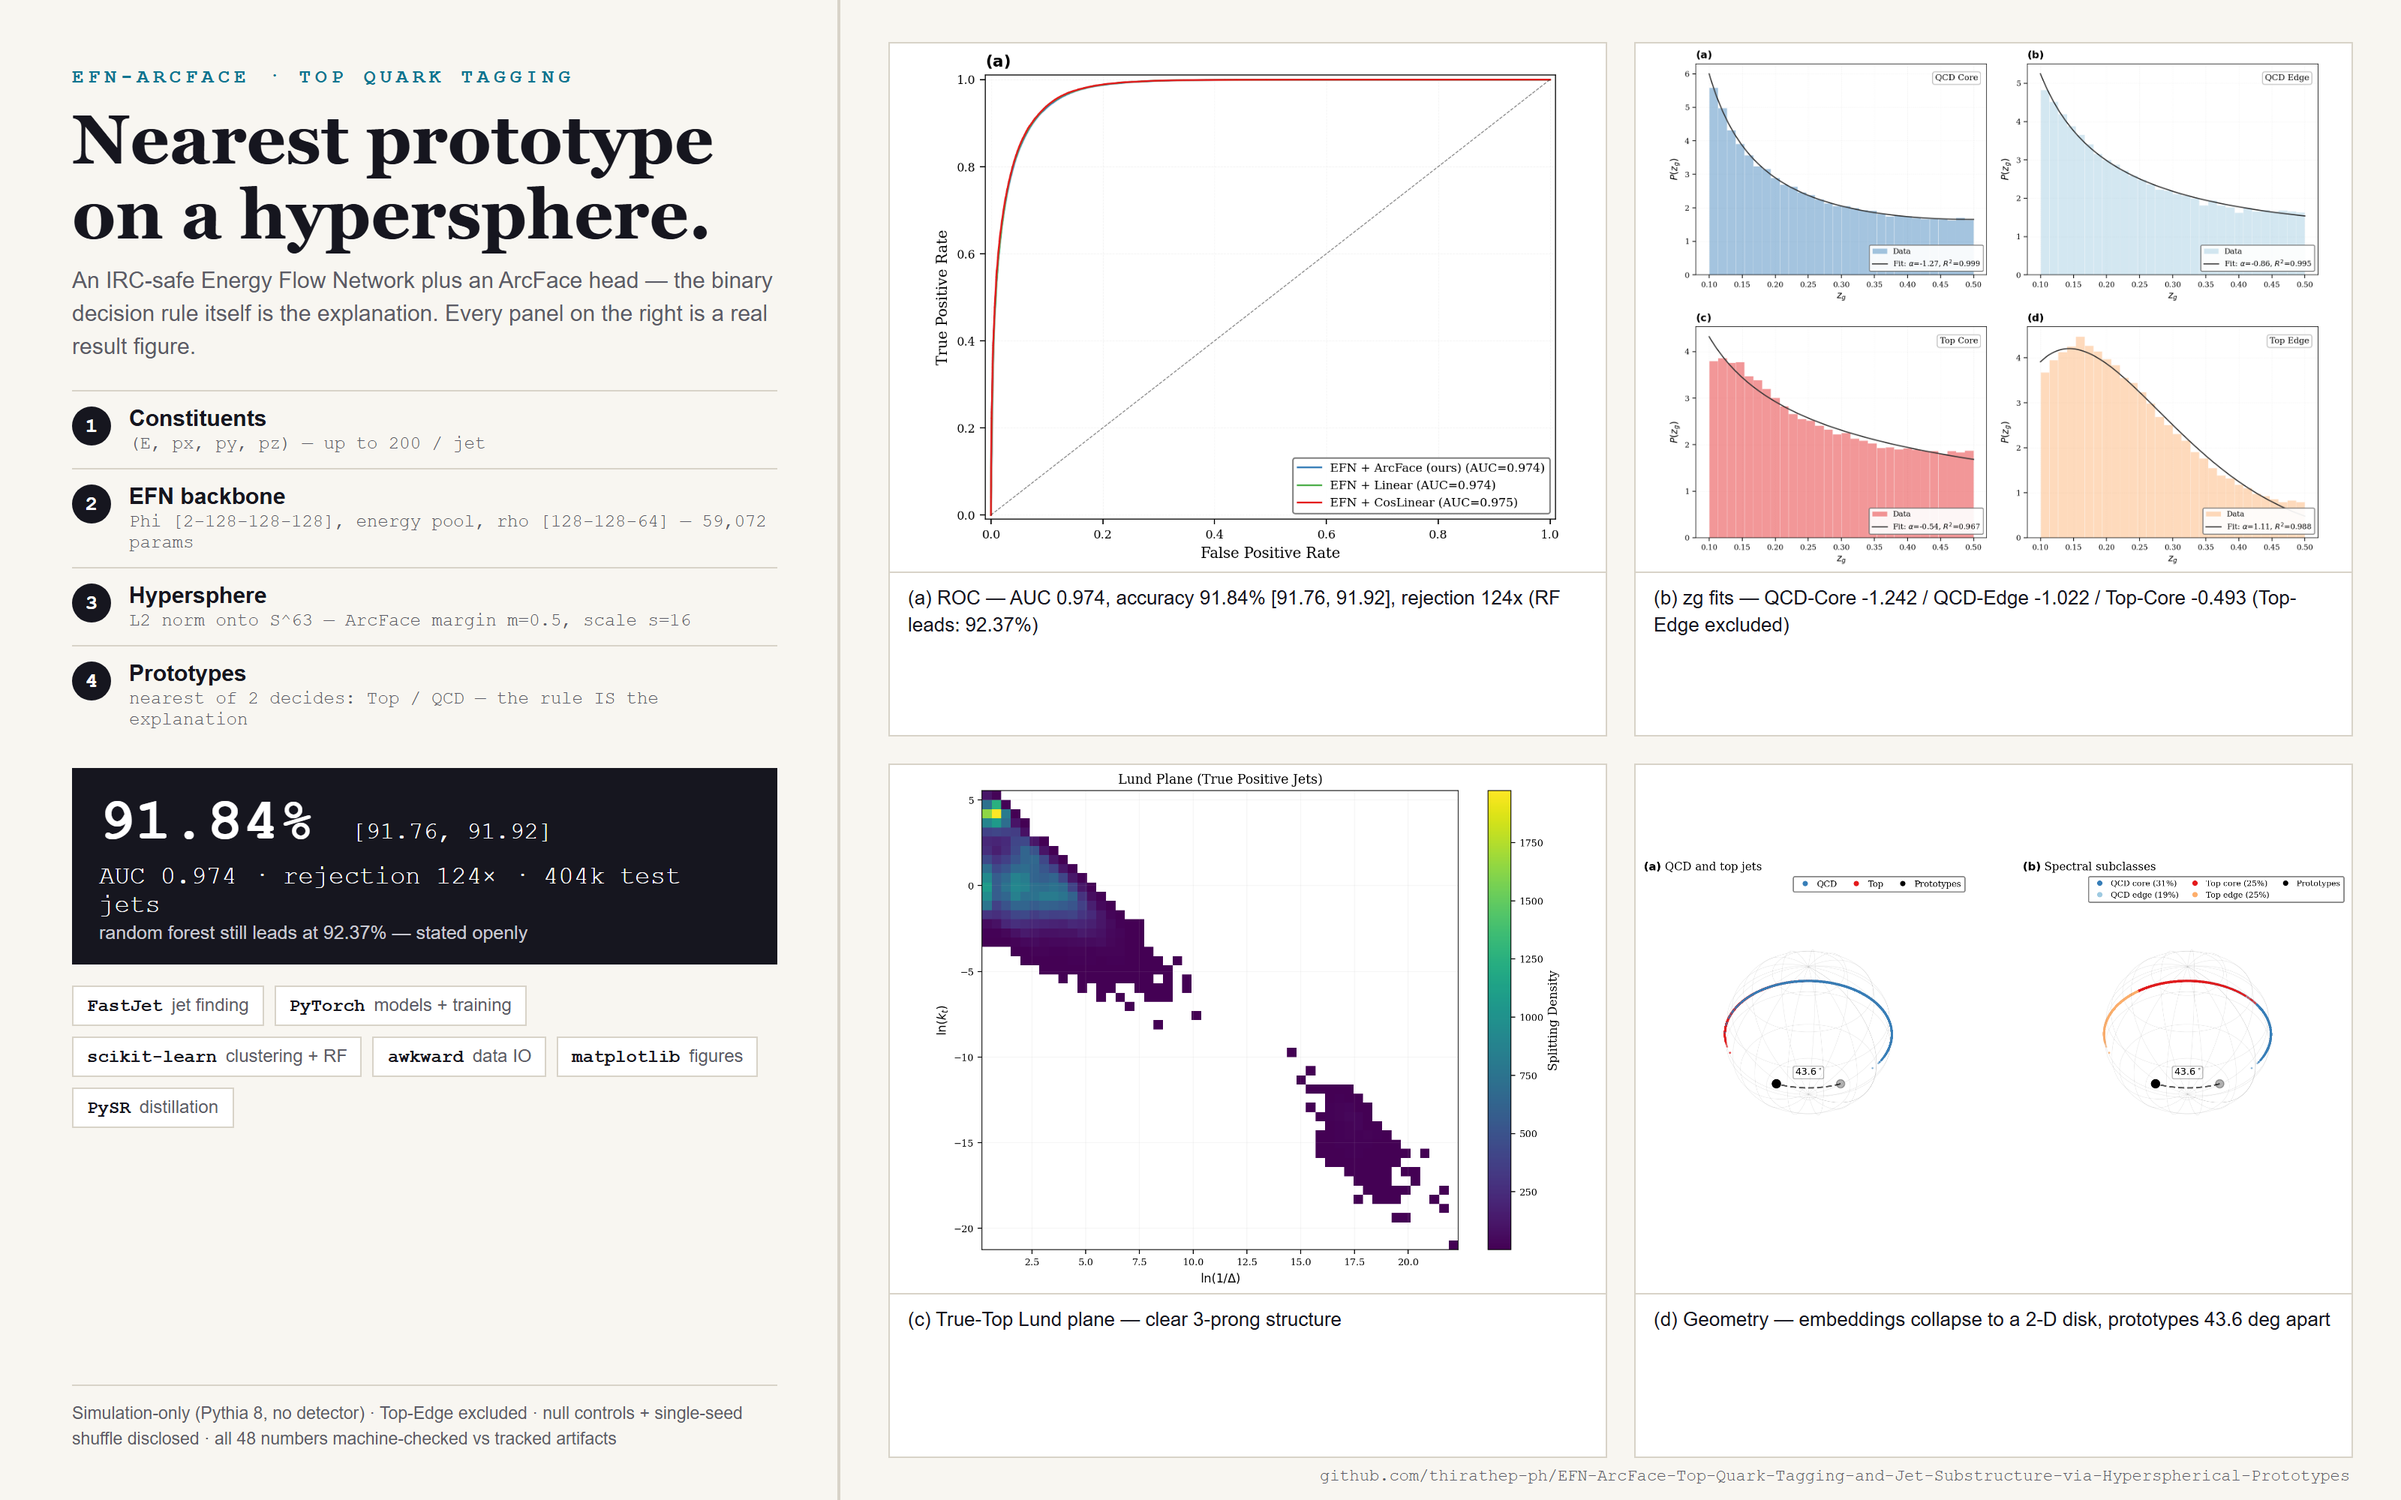
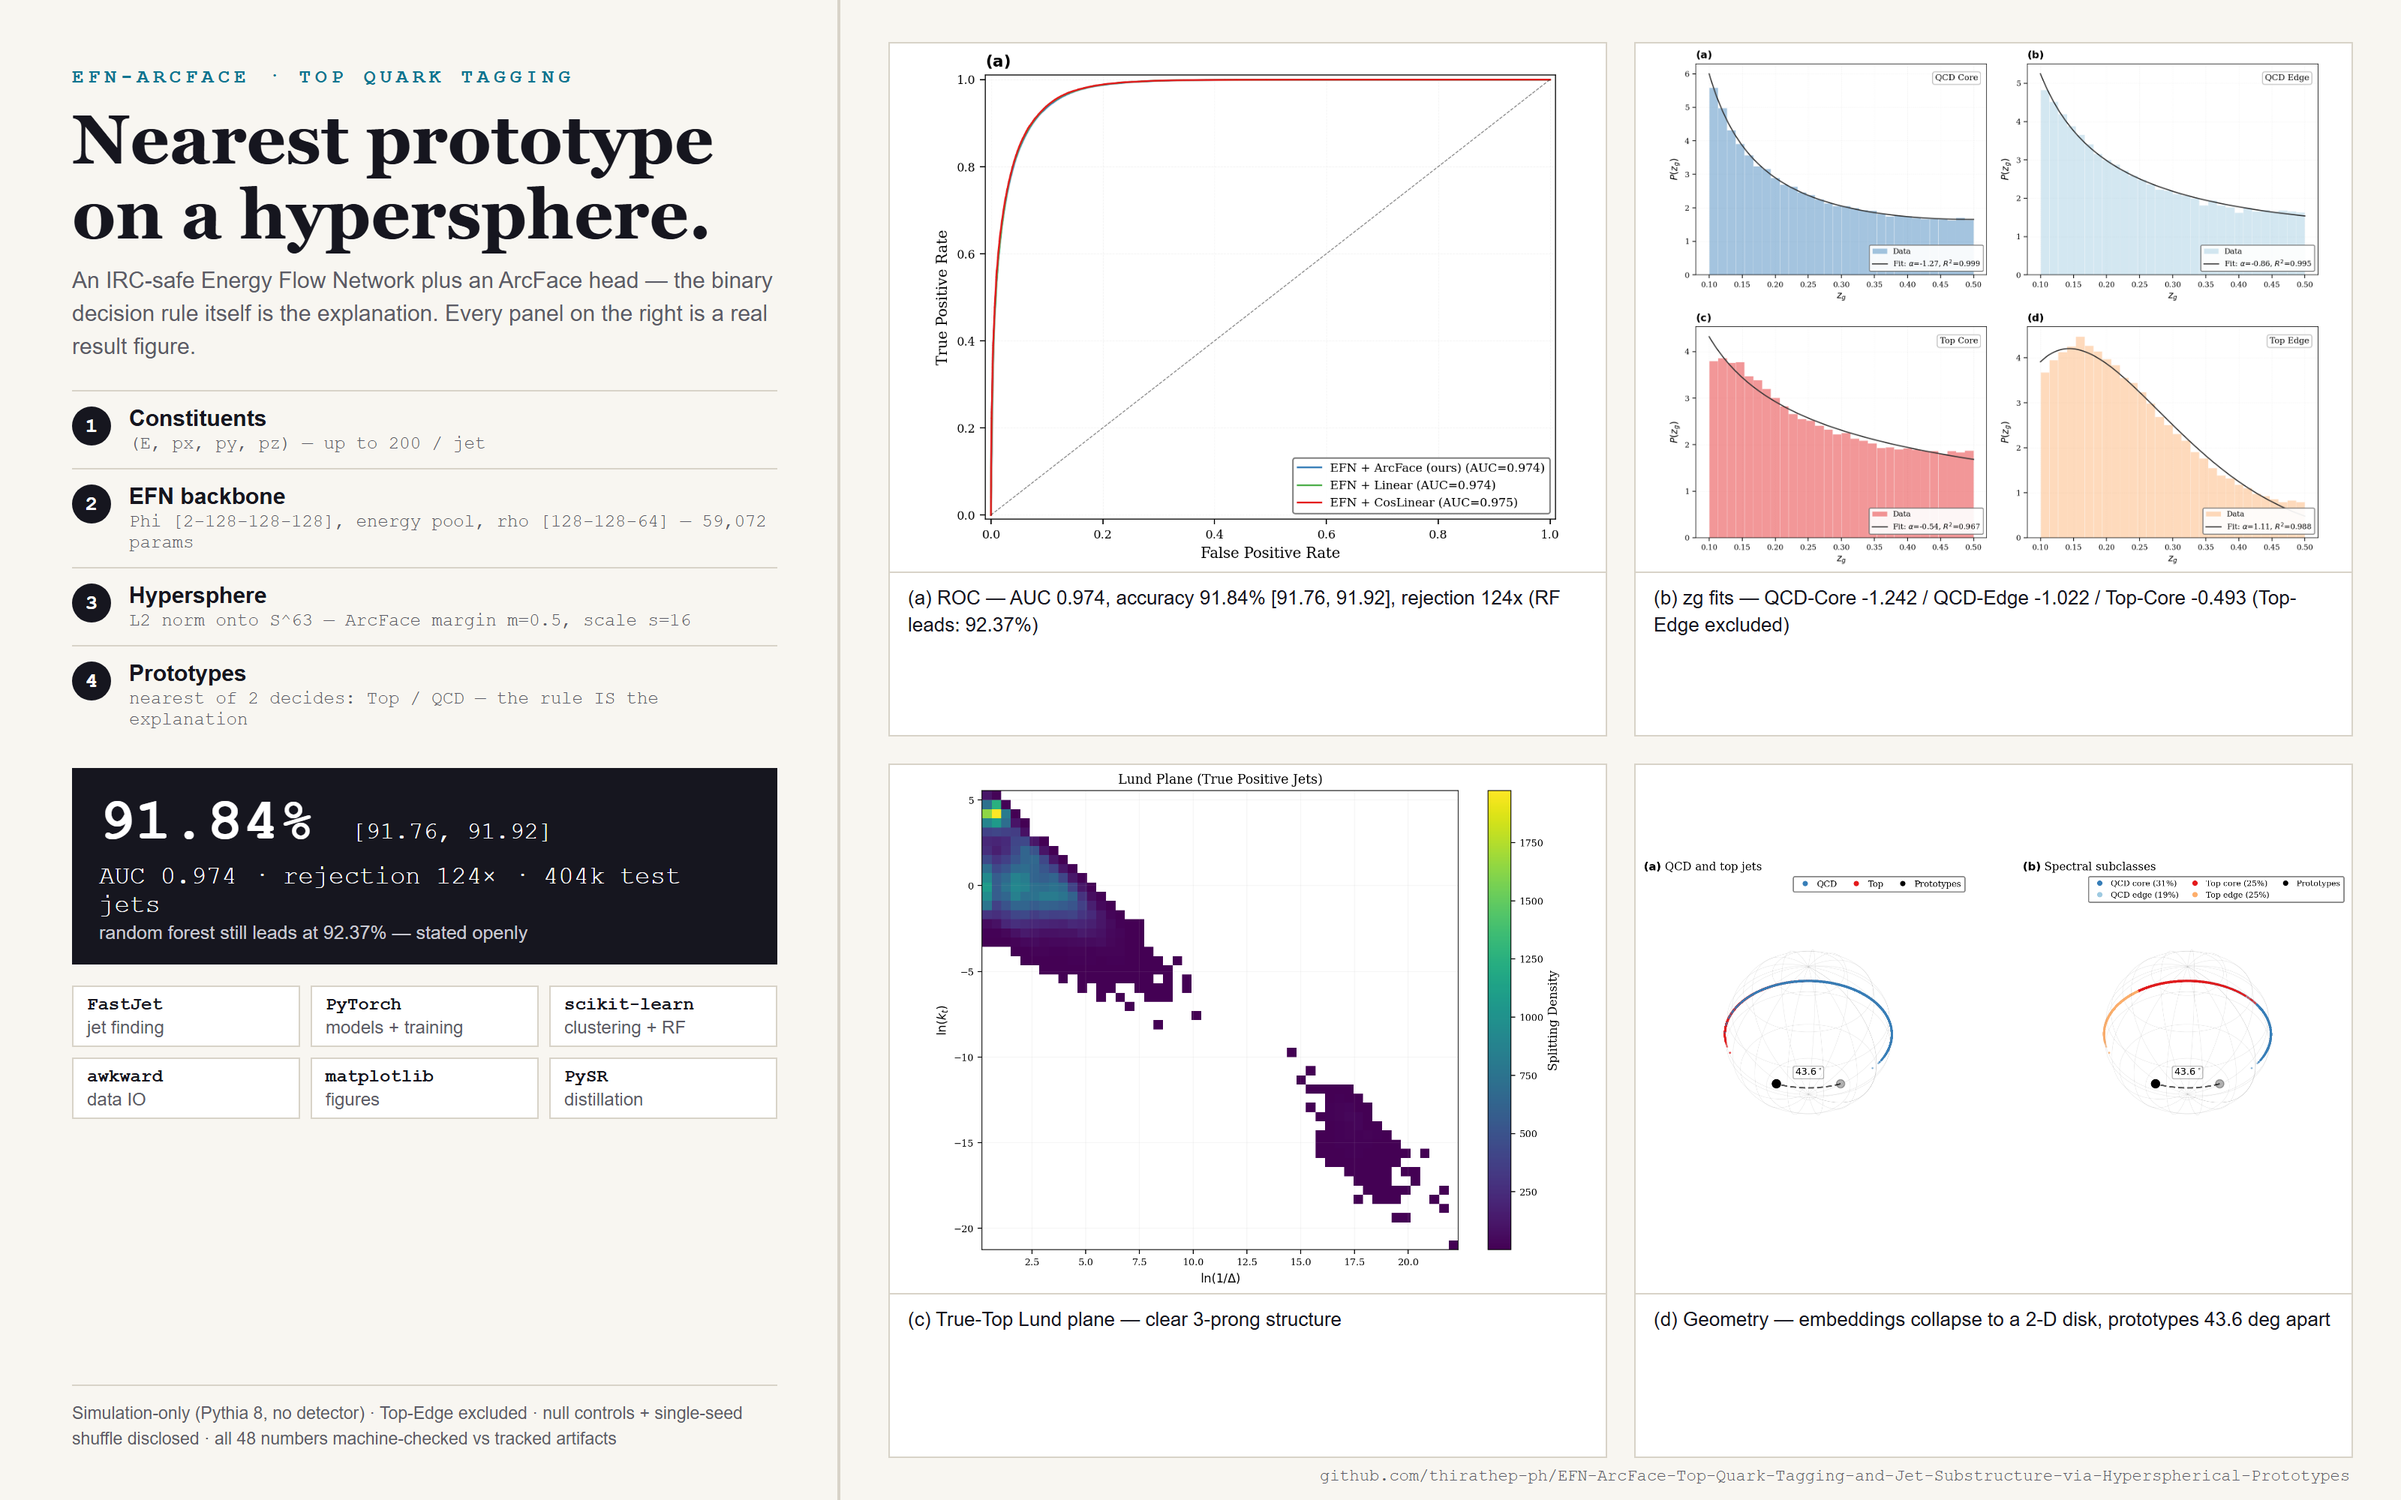
infographic v4: tool chips 3+3 grid (fix orphan wrap), render visually verified

Changed region(s): [[0.0312, 0.651, 0.3125, 0.744]]

diff --git a/scripts/make_infographic.py b/scripts/make_infographic.py
@@ -69,10 +69,10 @@ h1{{font-family:var(--f-d);font-size:46px;line-height:1.08;margin:10px 0 8px;fon
 .hero .v small{{font-size:16px;font-weight:normal}}
 .hero .v2{{font-family:var(--f-m);font-size:17px;margin-top:4px}}
 .hero .l{{font-size:12.5px;color:#c9c9d2;margin-top:2px}}
-.tools{{margin-top:14px;display:flex;flex-wrap:wrap;gap:7px}}
+.tools{{margin-top:14px;display:grid;grid-template-columns:repeat(3,1fr);gap:7px}}
 .tool{{border:1px solid var(--line);background:#fff;padding:5px 9px;font-size:12px}}
-.tool b{{font-family:var(--f-m)}}
-.tool span{{color:var(--mut);margin-left:6px}}
+.tool b{{font-family:var(--f-m);display:block}}
+.tool span{{color:var(--mut);display:block;margin-top:1px}}
 .foot{{margin-top:auto;font-size:11.5px;color:var(--mut);line-height:1.5;border-top:1px solid var(--line);padding-top:10px}}
 .right{{flex:1;padding:28px 32px;display:grid;grid-template-columns:1fr 1fr;grid-template-rows:1fr 1fr;gap:18px}}
 .panel{{background:#fff;border:1px solid var(--line);display:flex;flex-direction:column;overflow:hidden}}
